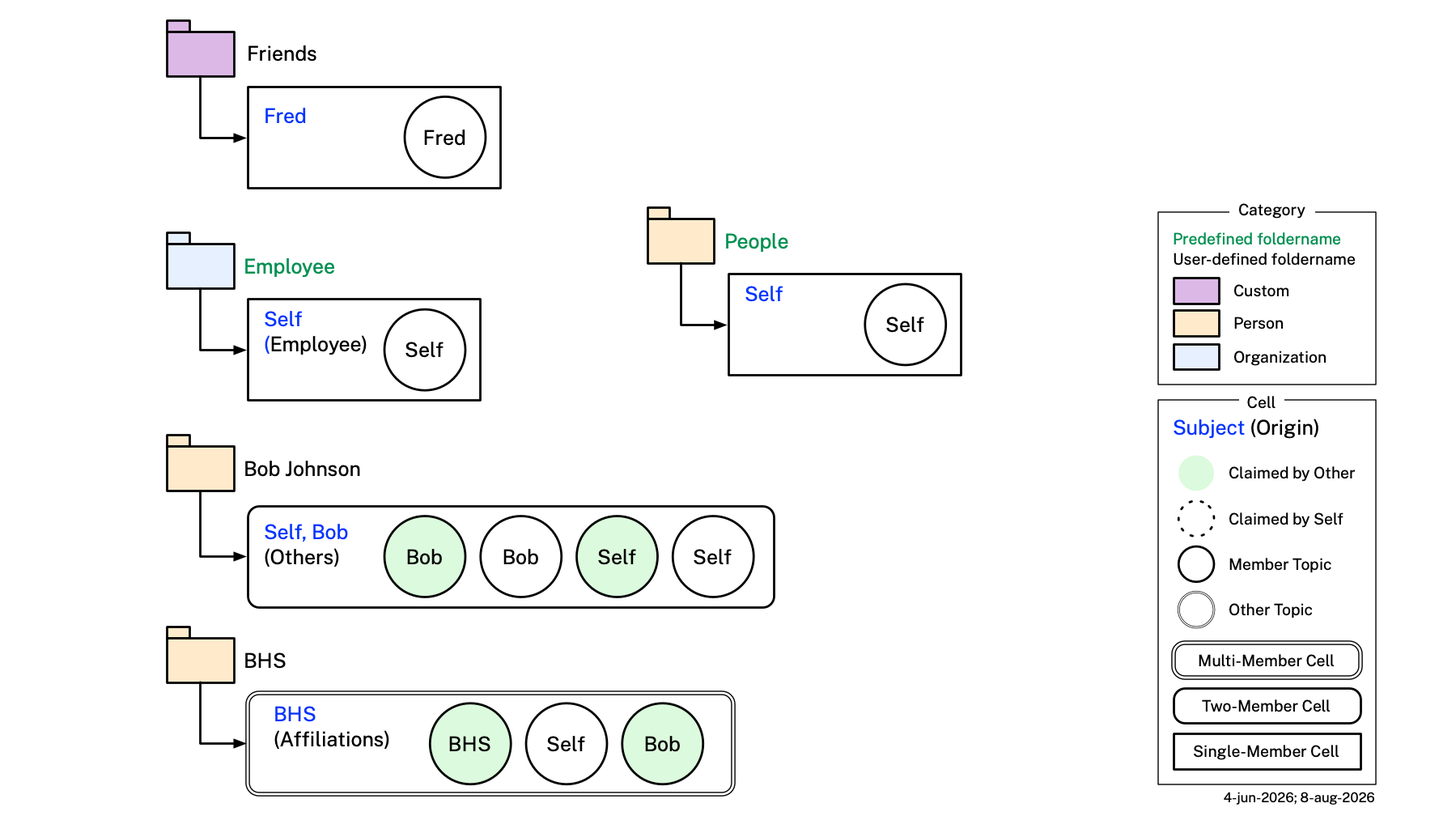
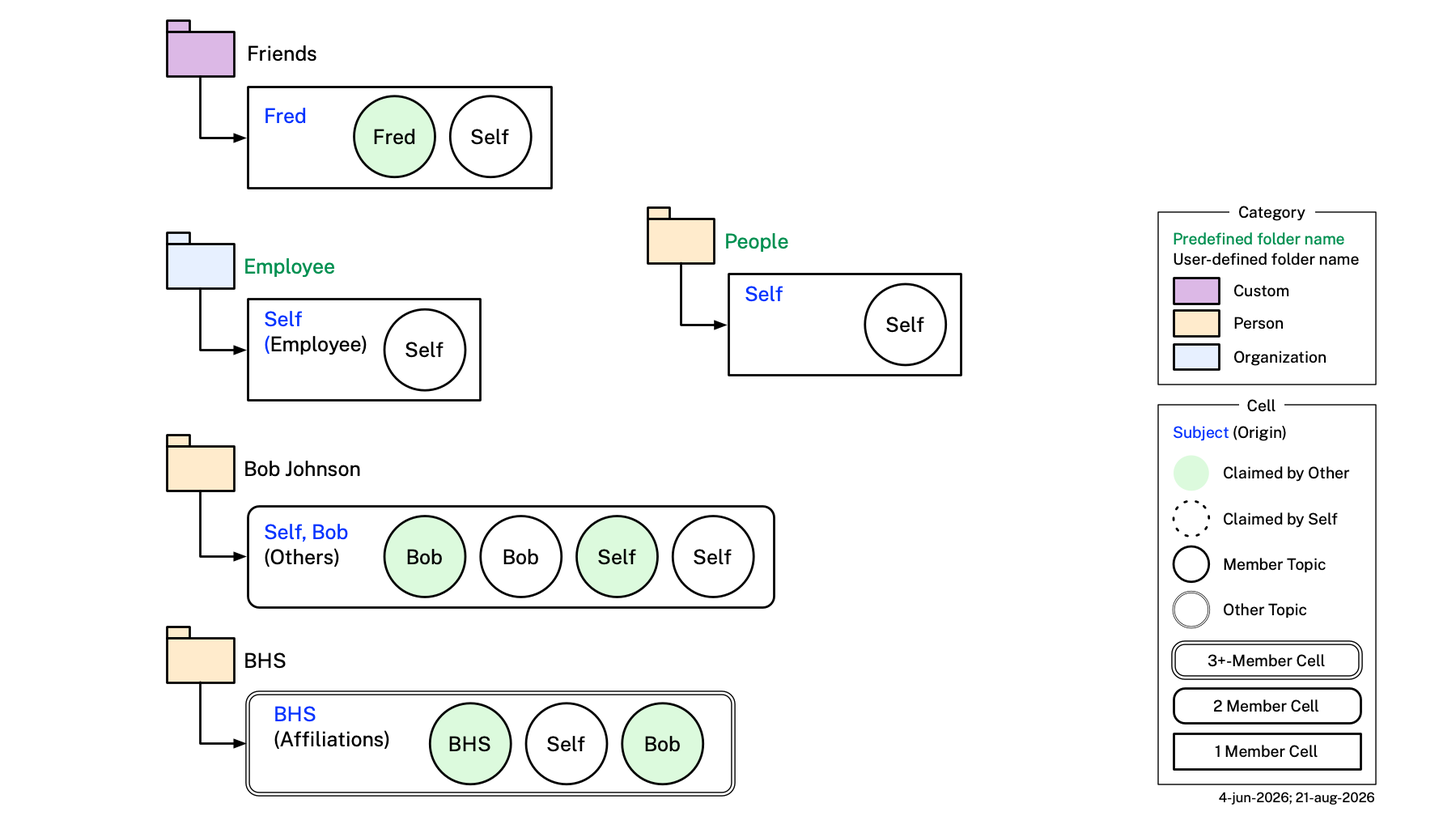
Correct Check 12d, resolve cell:chat as planned, verify cat-cell-topic.png fix
Check 12d previously claimed cell.png displays each concrete Cell
subtype's cell:label text somewhere in the diagram. Direct inspection
shows it doesn't -- the diagram only draws bare class names (OneMember,
TwoMember, ThreePlusMember). Corrected 12d to say so, and pointed to
where cell:label wording is actually verified (Check 10f for the 11
example diagrams; Check 15/20 for cat-cell-topic.png/folder-mapping.png).

cell:chat (the still-open discrepancy in cell.png) is confirmed a
planned property, not yet added to cell.ttl -- reworded from an open
question to a documented, accepted exception.

Verified the user's cat-cell-topic.png fix: the "Friends" box now shows
both a white "Self" member topic and a green "Fred" other topic,
resolving the Check 21 violation (a OneMember cell's sole topic being
about the subject, not Self) flagged last turn. Updated Check 15's
description to match, and refreshed its stale border-style label
strings ("Multi-Member Cell" etc. -> "3+ Member Cell" etc.).

diff --git a/CLAUDE.md b/CLAUDE.md
@@ -399,12 +399,12 @@ for root in ['example/Cells']:
 
 If a `SKIP-LEVEL NESTING` issue is found, give the intervening folder its own cell-databook. If a `TOO MANY CELLS` issue is found, move the extra file(s) out to their own new folder — a category folder may hold only one cell-databook, so a second cell belongs in its own new folder, not alongside the first. An empty/placeholder folder is not necessarily an error — flag it to the user rather than deleting it, since it may be a deliberate placeholder for content not yet added. Cell-databook files now routinely carry substantial body content (one `### Topic NN` section per embedded topic) — this is expected and not itself a violation of this check, which only validates folder nesting, not file size or content.
 
-**Check 12 — `cell.ttl` matches `images/cell-ontology/cell.png`**: Current as of the diagram's 5-aug-2026 redraw, which dropped the `folder` arrow off `Cell` entirely, matching cell.ttl 3.23.0's outright removal of `cell:folder` (a cell's folder is now purely the folder its cell-databook physically lives in, never a stored path, since a folder holds at most one cell-databook — cell.ttl 3.22.0 — so the folder<->cell mapping needs nothing recorded). `Cell` now shows only `origin` (to a `cat:Category` box, correctly drawn **0..1**, matching `cell:origin`'s actual cardinality — cell.ttl 3.26.0 reverted a brief 3.25.0 requirement back to optional, once UserDefined was reintroduced as a genuine third category type with no origin at all; the diagram's 0..1 label was never wrong). `cell:origin`'s range is the classificatory `cat:Category` — category.ttl 1.31.0 deleted the tree-position facet (`cat:Folder` and its subclasses) outright, so there is no longer any tree-position class this could be confused with — so it does not conflict with `cell:Cell`'s "no link to a tree position" design (see `cell:Cell`'s own `rdfs:comment`) — it records what kind of thing a cell is, not where it lives, and needs no `owl:imports category.ttl` (referenced by name only, mirroring `cell:creator`'s identical pattern). ⚠ **Still-open discrepancy**: the diagram still shows a `chat` arrow off `Cell` (to a box literally labeled "TBD") with no counterpart in `cell.ttl` — README.md already describes intended semantics for this too ("optional path to chat stream") but it has not been implemented in `cell.ttl`. Per this check's own rule below, don't silently resolve this either direction — surface it and ask whether `chat` is a planned property not yet added to `cell.ttl`, a stale leftover from an earlier design, or something else. Otherwise current as of cell.ttl 3.15.0: the diagram no longer shows a `note` arrow off `Cell`, matching `cell.ttl` 3.15.0's removal of `cell:note` (the separate notes/files folder hierarchies merged into one single hierarchy under `cell:folder`, itself later removed outright — see above); also correctly shows the `memberTopics`/`otherTopics` split (cell.ttl 3.14.0, renamed from `partyTopics` in 3.17.0) and the `t:SCTopicGraph` label (topic.ttl 1.15.0), both drawn as two separate arrows off `ACell` to a `t:SCTopicGraph` box. `Cell` (abstract, blue) carries `origin` only (plus the still-open `chat` arrow above). `Cell` splits into two orthogonal facets: `TCell` (abstract, blue, the template facet) carries `templateShape` (to a `sh:NodeShape` box); `ACell` (abstract, blue, the actual/instantiated facet) carries `subject` (to an `xsd:anyURI` box, 1..2 — renamed from `primary` in cell.ttl 3.12.0, range widened from `topic:SCTopicGraph`), `memberTopics` (to a `t:SCTopicGraph` box, cardinality varying by member count — split from `topics`/`secondary`, cell.ttl 3.14.0), `otherTopics` (to a `t:SCTopicGraph` box, 0..N uniformly — the other half of that same split), `shape` (to a `sh:NodeShape` box), `creator` (to a union of `p:Person`/`o:Organization`, required — cell.ttl 3.27.0 tightened this from optional/0..1 to 1..1), and `memberCount` (to `OneMember`/`TwoMember`/`ThreePlusMember` 1..1). The member-composition hierarchy — `OneMember` and `MultiMember` (abstract) → `TwoMember`/`ThreePlusMember` — hangs off `ACell`, not `Cell` directly; `TCell` has no subclasses of its own, since a template cell individual is instead multi-typed with both `TCell` and its `ACell`-lineage class (e.g. `OneMember`) — see `cell-templates.ttl`. `MultiMember` shows no arrows of its own, matching `cell:subject`/`cell:memberTopics`/`cell:otherTopics`'s domain being the broader `cell:ACell` rather than `cell:MultiMember`. No arrow points from `Cell`, `TCell`, or `ACell` to any tree-position box at all — category.ttl 1.31.0 deleted `cat:Folder` and its subclasses outright, so no such box exists any more — `cell:origin`'s arrow points to `cat:Category` instead, the classificatory hierarchy. This diagram is the ontology-level (not example-tree) picture of `cell:Cell`'s structure (redrawn for the 3.0.0/1.0.0 Cell/Category split, again for the 3.7.0 TCell/ACell split, again for the 3.10.0 graph/sc-context → primary/secondary rename, again for the 3.12.0 primary/secondary → subject/topics rename, again for the topic.ttl 1.15.0 SCtopic → SCTopicGraph label fix and the cell.ttl 3.14.0 topics → partyTopics/otherTopics arrow split, again for the cell.ttl 3.15.0 removal of the `note` arrow, again for the cell.ttl 3.17.0 party→member rename, again for the cell.ttl 3.20.0 addition of `cell:origin`, again for the cell.ttl 3.23.0 removal of `cell:folder`, and again for the cell.ttl 3.27.0 tightening of `cell:creator` from optional/0..1 to required/1..1) — the member-composition hierarchy and its content-linking properties. Unlike Check 10 (example diagrams, where the diagram always wins), this check does not presume which side is authoritative when the two disagree — surface the discrepancy and ask:
+**Check 12 — `cell.ttl` matches `images/cell-ontology/cell.png`**: Current as of the diagram's 5-aug-2026 redraw, which dropped the `folder` arrow off `Cell` entirely, matching cell.ttl 3.23.0's outright removal of `cell:folder` (a cell's folder is now purely the folder its cell-databook physically lives in, never a stored path, since a folder holds at most one cell-databook — cell.ttl 3.22.0 — so the folder<->cell mapping needs nothing recorded). `Cell` now shows only `origin` (to a `cat:Category` box, correctly drawn **0..1**, matching `cell:origin`'s actual cardinality — cell.ttl 3.26.0 reverted a brief 3.25.0 requirement back to optional, once UserDefined was reintroduced as a genuine third category type with no origin at all; the diagram's 0..1 label was never wrong). `cell:origin`'s range is the classificatory `cat:Category` — category.ttl 1.31.0 deleted the tree-position facet (`cat:Folder` and its subclasses) outright, so there is no longer any tree-position class this could be confused with — so it does not conflict with `cell:Cell`'s "no link to a tree position" design (see `cell:Cell`'s own `rdfs:comment`) — it records what kind of thing a cell is, not where it lives, and needs no `owl:imports category.ttl` (referenced by name only, mirroring `cell:creator`'s identical pattern). **Resolved, 22-aug-2026**: the diagram shows a `chat` arrow off `Cell` (to a box literally labeled "TBD") with no counterpart in `cell.ttl` yet — confirmed (not merely surfaced as an open question any more) to be a **planned property**, not yet implemented: README.md already describes its intended semantics ("optional path to chat stream"), but `cell.ttl` itself has no `cell:chat` declaration. Until it's added, `chat` remains an accepted, deliberate exception to 12a/12b below (the one arrow in this diagram with no matching `cell.ttl` property) rather than a bug to fix on either side. Otherwise current as of cell.ttl 3.15.0: the diagram no longer shows a `note` arrow off `Cell`, matching `cell.ttl` 3.15.0's removal of `cell:note` (the separate notes/files folder hierarchies merged into one single hierarchy under `cell:folder`, itself later removed outright — see above); also correctly shows the `memberTopics`/`otherTopics` split (cell.ttl 3.14.0, renamed from `partyTopics` in 3.17.0) and the `t:SCTopicGraph` label (topic.ttl 1.15.0), both drawn as two separate arrows off `ACell` to a `t:SCTopicGraph` box. `Cell` (abstract, blue) carries `origin` only (plus the still-open `chat` arrow above). `Cell` splits into two orthogonal facets: `TCell` (abstract, blue, the template facet) carries `templateShape` (to a `sh:NodeShape` box); `ACell` (abstract, blue, the actual/instantiated facet) carries `subject` (to an `xsd:anyURI` box, 1..2 — renamed from `primary` in cell.ttl 3.12.0, range widened from `topic:SCTopicGraph`), `memberTopics` (to a `t:SCTopicGraph` box, cardinality varying by member count — split from `topics`/`secondary`, cell.ttl 3.14.0), `otherTopics` (to a `t:SCTopicGraph` box, 0..N uniformly — the other half of that same split), `shape` (to a `sh:NodeShape` box), `creator` (to a union of `p:Person`/`o:Organization`, required — cell.ttl 3.27.0 tightened this from optional/0..1 to 1..1), and `memberCount` (to `OneMember`/`TwoMember`/`ThreePlusMember` 1..1). The member-composition hierarchy — `OneMember` and `MultiMember` (abstract) → `TwoMember`/`ThreePlusMember` — hangs off `ACell`, not `Cell` directly; `TCell` has no subclasses of its own, since a template cell individual is instead multi-typed with both `TCell` and its `ACell`-lineage class (e.g. `OneMember`) — see `cell-templates.ttl`. `MultiMember` shows no arrows of its own, matching `cell:subject`/`cell:memberTopics`/`cell:otherTopics`'s domain being the broader `cell:ACell` rather than `cell:MultiMember`. No arrow points from `Cell`, `TCell`, or `ACell` to any tree-position box at all — category.ttl 1.31.0 deleted `cat:Folder` and its subclasses outright, so no such box exists any more — `cell:origin`'s arrow points to `cat:Category` instead, the classificatory hierarchy. This diagram is the ontology-level (not example-tree) picture of `cell:Cell`'s structure (redrawn for the 3.0.0/1.0.0 Cell/Category split, again for the 3.7.0 TCell/ACell split, again for the 3.10.0 graph/sc-context → primary/secondary rename, again for the 3.12.0 primary/secondary → subject/topics rename, again for the topic.ttl 1.15.0 SCtopic → SCTopicGraph label fix and the cell.ttl 3.14.0 topics → partyTopics/otherTopics arrow split, again for the cell.ttl 3.15.0 removal of the `note` arrow, again for the cell.ttl 3.17.0 party→member rename, again for the cell.ttl 3.20.0 addition of `cell:origin`, again for the cell.ttl 3.23.0 removal of `cell:folder`, and again for the cell.ttl 3.27.0 tightening of `cell:creator` from optional/0..1 to required/1..1) — the member-composition hierarchy and its content-linking properties. Unlike Check 10 (example diagrams, where the diagram always wins), this check does not presume which side is authoritative when the two disagree — surface the discrepancy and ask:
 
-- **12a** — every property arrow shown off `Cell` (`origin`) has a corresponding `cell:` property in `cell.ttl` with `rdfs:domain cell:Cell` (the diagram's `chat` arrow currently fails this — see the still-open discrepancy above). Every arrow off `TCell` (`templateShape`) has `rdfs:domain cell:TCell`; every arrow off `ACell` (`shape`, `creator`, `memberCount`, `subject`, `memberTopics`, `otherTopics`) has `rdfs:domain cell:ACell` — `creator` and `memberCount` were narrowed here from `cell:Cell` in cell.ttl 3.7.0 (`memberCount` itself renamed from `parties` in 3.17.0), `subject`/`topics` (renamed from `primary`/`secondary`, themselves renamed from `graph`/`sc-context`) in 3.10.0/3.12.0, and `topics` itself split into `partyTopics`/`otherTopics` in 3.14.0 (`partyTopics` itself renamed to `memberTopics` in 3.17.0). `MultiMember` should show no arrows of its own — it carries no property, since `cell:subject`/`cell:memberTopics`/`cell:otherTopics`'s domain is the broader `cell:ACell`. Each arrow's target type in the diagram must match the property's `rdfs:range` — `subject`'s is `xsd:anyURI` (widened from `topic:SCTopicGraph` in cell.ttl 3.12.0, since its value is the resource(s) the cell is about, not a topic container; `subject` is an `owl:AnnotationProperty`, unlike the other `ACell` arrows, though the diagram doesn't visually distinguish annotation from object properties by arrow style anywhere), `memberTopics`'s and `otherTopics`'s are both `topic:SCTopicGraph` (unchanged range from `topics`; narrowed from plain `topic:TopicGraph` for `primary`/`graph` in 3.10.0; renamed from `context:SCcontext`/`context:Context` in cell.ttl 3.11.0; the diagram's box for this target correctly reads `t:SCTopicGraph`, not the retired `t:SCtopic` label), `creator`'s is the union of `p:Person`/`o:Organization`, `memberCount`'s is `cell:ACell` itself (value is the concrete subclass, not `xsd:string`; range narrowed from `cell:Cell` in 3.7.0), `origin`'s is `cat:Category` itself (value is the concrete leaf subclass, e.g. `cat:Others`, not `xsd:string` — the same class-value-punning pattern as `memberCount`), `templateShape`'s and `shape`'s are both `sh:NodeShape` — two separate arrows from two different boxes (`TCell` vs `ACell`) to what may be drawn as the same target, since they're two distinct properties, not one property under two names. No `note` arrow should appear off `Cell` at all — `cell:note` was removed in cell.ttl 3.15.0.
+- **12a** — every property arrow shown off `Cell` (`origin`) has a corresponding `cell:` property in `cell.ttl` with `rdfs:domain cell:Cell` (the diagram's `chat` arrow is the one accepted exception — see "Resolved, 22-aug-2026" above: it's a planned property, not yet added to `cell.ttl`). Every arrow off `TCell` (`templateShape`) has `rdfs:domain cell:TCell`; every arrow off `ACell` (`shape`, `creator`, `memberCount`, `subject`, `memberTopics`, `otherTopics`) has `rdfs:domain cell:ACell` — `creator` and `memberCount` were narrowed here from `cell:Cell` in cell.ttl 3.7.0 (`memberCount` itself renamed from `parties` in 3.17.0), `subject`/`topics` (renamed from `primary`/`secondary`, themselves renamed from `graph`/`sc-context`) in 3.10.0/3.12.0, and `topics` itself split into `partyTopics`/`otherTopics` in 3.14.0 (`partyTopics` itself renamed to `memberTopics` in 3.17.0). `MultiMember` should show no arrows of its own — it carries no property, since `cell:subject`/`cell:memberTopics`/`cell:otherTopics`'s domain is the broader `cell:ACell`. Each arrow's target type in the diagram must match the property's `rdfs:range` — `subject`'s is `xsd:anyURI` (widened from `topic:SCTopicGraph` in cell.ttl 3.12.0, since its value is the resource(s) the cell is about, not a topic container; `subject` is an `owl:AnnotationProperty`, unlike the other `ACell` arrows, though the diagram doesn't visually distinguish annotation from object properties by arrow style anywhere), `memberTopics`'s and `otherTopics`'s are both `topic:SCTopicGraph` (unchanged range from `topics`; narrowed from plain `topic:TopicGraph` for `primary`/`graph` in 3.10.0; renamed from `context:SCcontext`/`context:Context` in cell.ttl 3.11.0; the diagram's box for this target correctly reads `t:SCTopicGraph`, not the retired `t:SCtopic` label), `creator`'s is the union of `p:Person`/`o:Organization`, `memberCount`'s is `cell:ACell` itself (value is the concrete subclass, not `xsd:string`; range narrowed from `cell:Cell` in 3.7.0), `origin`'s is `cat:Category` itself (value is the concrete leaf subclass, e.g. `cat:Others`, not `xsd:string` — the same class-value-punning pattern as `memberCount`), `templateShape`'s and `shape`'s are both `sh:NodeShape` — two separate arrows from two different boxes (`TCell` vs `ACell`) to what may be drawn as the same target, since they're two distinct properties, not one property under two names. No `note` arrow should appear off `Cell` at all — `cell:note` was removed in cell.ttl 3.15.0.
 - **12b** — every `cell:` property defined in `cell.ttl` appears as an arrow in the diagram, under the box matching its domain — `Cell`, `TCell`, or `ACell` (catches new properties added to the ttl but never drawn, or drawn under the wrong box). `cell:origin` satisfies this as of cell.ttl 3.20.0.
 - **12c** — the class hierarchy `Cell` → `TCell`/`ACell` (both abstract), and separately `ACell` → `MultiMember` (abstract) → `TwoMember`/`ThreePlusMember`, plus `ACell` → `OneMember`, shown in the diagram matches `cell.ttl`'s actual `rdfs:subClassOf` relationships (by class local name, not just position). `OneMember` and `MultiMember` must not be drawn as direct children of `Cell` — both moved under `ACell` in cell.ttl 3.7.0.
-- **12d** — each concrete `Cell` subtype's example `cell:label` value shown in the diagram (`"Single-Member Cell"`, `"Two-Member Cell"`, `"Multi-Member Cell"`) matches that subtype's actual `cell:label` value in `cell.ttl` — these display strings were updated in cell.ttl 3.17.0 (from `"Cell"`/`"Two-Party Cell"`/`"Multi-Party Cell"`) to match the redrawn diagrams. `cell:label` here is a class-level default display name — category.ttl 1.31.0 deleted `cat:label` (the per-instance display name it used to be distinguished from) outright, since it lived on the now-deleted `cat:Folder` — `Cell`, `TCell`, `ACell`, and `MultiMember` are all abstract and carry no `cell:label` of their own.
+- **12d** — ⚠ **Corrected, 22-aug-2026**: this item previously claimed `cell.png` displays each concrete `Cell` subtype's example `cell:label` value (`"Single-Member Cell"`, `"Two-Member Cell"`, `"Multi-Member Cell"`, later renamed `"1 Member Cell"`/`"2 Member Cell"`/`"3+ Member Cell"`) somewhere in the diagram, and that this text must match `cell.ttl`'s actual `cell:label` values. Direct inspection of the current `cell.png` shows this is not true — the diagram only draws the bare class local names (`OneMember`, `TwoMember`, `ThreePlusMember`) as box labels; no `cell:label` display string appears anywhere in it. There is accordingly nothing for this item to check in `cell.png` — the `cell:label` wording is instead verified where it's actually drawn, in the 11 example diagrams (Check 10f) and in `cat-cell-topic.png`/`images/folder-mapping.png`'s border-style legend entries (Checks 15/20). `cell:label` itself is still a real class-level default display name defined in `cell.ttl` (category.ttl 1.31.0 deleted `cat:label`, the per-instance display name it used to be distinguished from, outright, since it lived on the now-deleted `cat:Folder`) — `Cell`, `TCell`, `ACell`, and `MultiMember` are all abstract and carry no `cell:label` of their own — this item is only correcting where that text is expected to be rendered.
 
 **Check 13 — `topic.ttl` matches `images/topic-ontology/topic.png`**: ⚠ **Stale as of topic.ttl 1.15.0** — the diagram still shows boxes labeled `Topic` and `SCtopic`, the retired pre-1.15.0 class names; it needs manual redrawing to `TopicGraph`/`SCTopicGraph` and is described below in its pre-1.15.0 form for reference. Redrawn for the context→topic rename and the `subject` range broadening: `Topic` shows only `template`; `SCtopic` (subClassOf `Topic`) shows `subject` (targeting `xsd:anyURI` — any resource IRI, not necessarily `p:Person`/`o:Organization`) and `claimant` (targeting `p:Person`/`o:Organization`, not `i:PDNidentifier`) — no `about-by` arrow, matching the earlier deletion of `context:about-by`. No leaf subtype boxes below `SCtopic`, matching the earlier deletion of `SBScontext`/`OBScontext`/`OBOcontext`/`SBOcontext` — `SCTopicGraph` has no subclasses. Once redrawn for topic.ttl 1.15.0, the two boxes should simply read `TopicGraph` and `SCTopicGraph` — no change to which arrows they carry or those arrows' targets/cardinalities, this is a pure rename with no domain/range/cardinality changes. This diagram is the ontology-level picture of `topic:TopicGraph`'s structure. After any change to `topic.ttl` or to this diagram, verify:
 
@@ -419,7 +419,7 @@ If a `SKIP-LEVEL NESTING` issue is found, give the intervening folder its own ce
 - **14b** — every `cat:` property defined in `category.ttl` appears as an arrow in the diagram, under the box matching its domain (catches new properties added to the ttl but never drawn, or drawn under the wrong box). As of category.ttl 1.31.0 this means just `templateCell`.
 - **14c** — the class hierarchy `Category` → `Person`/`Organization` (both abstract) and their leaf subclasses, shown in the diagram matches `category.ttl`'s actual `rdfs:subClassOf` and `cell:abstract` values. There is no second tree to check any more — `category.ttl` defines no `Folder` hierarchy at all as of 1.31.0.
 
-**Check 15 — `images/cat-cell-topic.png` matches example usage**: Current as of the second 8-aug-2026 redraw, which moved the fill color back onto the folder icon (reverting the previous redraw's brief move to the cell's own content box, which is now uniformly plain white throughout) and renamed the "UserDefined" fill swatch to "Custom." The legend is split into two boxes: a **Category** legend (title "Category") holds only the two folder-**name**-text swatches, "Predefined foldername" (green) and "User-defined foldername" (plain black, no color swatch — it's the absence of green, not a third text color); the **Cell** legend holds three fill-color swatches — Custom (purple), Person (tan), Organization (light blue) — alongside the existing Subject/Origin and border-style entries. None of these names are OWL classes — category.ttl 1.31.0 deleted `cat:Folder` and its `cat:CategoryDefined`/`cat:UserDefined` subclasses outright, and no such class was reintroduced; Custom stays a pure filename/display convention. Fill color is on the folder icon, reflecting `c:origin`'s presence and ancestry (tan when it resolves to `cat:Person`, light blue when `cat:Organization`, purple/Custom when the cell has no origin at all — see README's "Category Folders" section); the cell's own content box never carries fill, always plain white. Folder-name text color is a *different* fact, meaningful only when an origin is present — green when the folder's name is copied verbatim from that origin's own `rdfs:label`, plain black when the user gave the folder a different name. A Custom (no-origin) folder has no label to match, so its name is always black text too, never green. The **Cell** legend's Subject/Origin/border-style portion is otherwise unchanged: a blue **Subject** heading over a green-filled circle labeled "Claimed by Other", a white/outlined circle labeled "Claimed by Self", a gray swatch labeled "Shared"; "Member Topic"/"Other Topic" circle entries (mapping to `c:memberTopics`/`c:otherTopics` — visually similar at normal viewing size, lean on the text labels); and three cell-box border-style entries — "Multi-Member Cell" (bold/double border), "Two-Member Cell" (double border), "Single-Member Cell" (single border), matching `cell:ThreePlusMember`/`cell:TwoMember`/`cell:OneMember`'s `cell:label` values (Check 12d). Every topic circle carries an explicit subject-name label (e.g. "Bob", "Self", "BHS") baked directly into the circle. This diagram illustrates representative cell/category associations generically, not tied to a specific example instance — five boxes, each with a single-line folder-name header (no separate `catType`/`label` split), fill color on the folder icon, content box always plain white: `Friends` (purple/Custom fill, black text, no origin at all, `cell:OneMember`, subject "Fred", one white "Fred" topic), `Employee` (light-blue/`Organization`, green text — folder name matches origin `(Employee)`'s own label exactly, `cell:OneMember`, subject "Self", one white "Self" topic), `People` (tan/`Person`, green text — no origin parenthetical shown, correctly compressed since the origin's label already equals the folder name, `cell:OneMember`, subject "Self", one white "Self" topic), `Bob Johnson` (tan/`Person`, black text — origin `(Others)` ≠ folder name, `cell:TwoMember`, subject "Self, Bob", four topics — two white/self-claimed, two green/other-claimed, all four topic link types filled), and `BHS` (tan/`Person`, black text — origin `(Affiliations)` ≠ folder name, `cell:ThreePlusMember`, subject "BHS", three topics: BHS's own profile (green), Self's BHS profile (white), and Bob's BHS member profile (green)) — it replaces the earlier `images/cell-ontology/cells+contexts.png`. The previously-flagged `Employees`/`(Employee)` label mismatch is resolved: the box's folder name was changed to the singular `Employee` to match its shown origin label, rather than recoloring it. Each cell box shows only a single plain folder icon (no separate "chat" icon; see Check 12's still-open `cell:chat` discrepancy, which concerns `cell.png` only, not this diagram). Re-verify each box's `Member Topic`/`Other Topic` circles and blue `Subject` text remain a valid illustration of the properties and cardinalities described in the Cell and Category Ontology sections of `README.md` after any change to those properties.
+**Check 15 — `images/cat-cell-topic.png` matches example usage**: Current as of the second 8-aug-2026 redraw, which moved the fill color back onto the folder icon (reverting the previous redraw's brief move to the cell's own content box, which is now uniformly plain white throughout) and renamed the "UserDefined" fill swatch to "Custom." The legend is split into two boxes: a **Category** legend (title "Category") holds only the two folder-**name**-text swatches, "Predefined foldername" (green) and "User-defined foldername" (plain black, no color swatch — it's the absence of green, not a third text color); the **Cell** legend holds three fill-color swatches — Custom (purple), Person (tan), Organization (light blue) — alongside the existing Subject/Origin and border-style entries. None of these names are OWL classes — category.ttl 1.31.0 deleted `cat:Folder` and its `cat:CategoryDefined`/`cat:UserDefined` subclasses outright, and no such class was reintroduced; Custom stays a pure filename/display convention. Fill color is on the folder icon, reflecting `c:origin`'s presence and ancestry (tan when it resolves to `cat:Person`, light blue when `cat:Organization`, purple/Custom when the cell has no origin at all — see README's "Category Folders" section); the cell's own content box never carries fill, always plain white. Folder-name text color is a *different* fact, meaningful only when an origin is present — green when the folder's name is copied verbatim from that origin's own `rdfs:label`, plain black when the user gave the folder a different name. A Custom (no-origin) folder has no label to match, so its name is always black text too, never green. The **Cell** legend's Subject/Origin/border-style portion is otherwise unchanged: a blue **Subject** heading over a green-filled circle labeled "Claimed by Other", a white/outlined circle labeled "Claimed by Self", a gray swatch labeled "Shared"; "Member Topic"/"Other Topic" circle entries (mapping to `c:memberTopics`/`c:otherTopics` — visually similar at normal viewing size, lean on the text labels); and three cell-box border-style entries — "3+ Member Cell" (bold/double border), "2 Member Cell" (double border), "1 Member Cell" (single border), matching `cell:ThreePlusMember`/`cell:TwoMember`/`cell:OneMember`'s current `cell:label` values (renamed from "Multi-Member Cell"/"Two-Member Cell"/"Single-Member Cell" — Check 12d no longer covers this, since `cell.png` itself never actually drew this text; it's verified here and in the 11 example diagrams' own legends, Check 10f, instead). Every topic circle carries an explicit subject-name label (e.g. "Bob", "Self", "BHS") baked directly into the circle. This diagram illustrates representative cell/category associations generically, not tied to a specific example instance — five boxes, each with a single-line folder-name header (no separate `catType`/`label` split), fill color on the folder icon, content box always plain white: `Friends` (purple/Custom fill, black text, no origin at all, `cell:OneMember`, subject "Fred", two topics: a white "Self" member topic — the cell's required `memberTopics` entry, per Check 21 — and a green "Fred" other topic, since Fred is the subject but not the member), `Employee` (light-blue/`Organization`, green text — folder name matches origin `(Employee)`'s own label exactly, `cell:OneMember`, subject "Self", one white "Self" topic), `People` (tan/`Person`, green text — no origin parenthetical shown, correctly compressed since the origin's label already equals the folder name, `cell:OneMember`, subject "Self", one white "Self" topic), `Bob Johnson` (tan/`Person`, black text — origin `(Others)` ≠ folder name, `cell:TwoMember`, subject "Self, Bob", four topics — two white/self-claimed, two green/other-claimed, all four topic link types filled), and `BHS` (tan/`Person`, black text — origin `(Affiliations)` ≠ folder name, `cell:ThreePlusMember`, subject "BHS", three topics: BHS's own profile (green), Self's BHS profile (white), and Bob's BHS member profile (green)) — it replaces the earlier `images/cell-ontology/cells+contexts.png`. The previously-flagged `Employees`/`(Employee)` label mismatch is resolved: the box's folder name was changed to the singular `Employee` to match its shown origin label, rather than recoloring it. Each cell box shows only a single plain folder icon (no separate "chat" icon; see Check 12's `cell:chat` planned-property note, which concerns `cell.png` only, not this diagram). Re-verify each box's `Member Topic`/`Other Topic` circles and blue `Subject` text remain a valid illustration of the properties and cardinalities described in the Cell and Category Ontology sections of `README.md` after any change to those properties.
 
 **Check 16 — IRI roots: `mee.foundation/ontologies` for foundational files, `www.example.org` for example data**: Every foundational ontology and SHACL shapes file — `persona.ttl`, `topic.ttl`, `cell.ttl`, `category.ttl`, `cell-templates.ttl`, `pdn-identity.ttl`, `organization.ttl`, `persona-templates.ttl`, their `*-shacl.ttl` companions (including `cell-templates-shacl.ttl`), and the per-template files in `shacl/` — must declare its `owl:Ontology` IRI under `http://mee.foundation/ontologies/`. There is no longer a separate canonical category/cell DataBook tree to check (`categories-person/`/`categories-org/` were removed in category.ttl 1.8.0) — the canonical tree's IRI roots are covered by `category.ttl`/`cell-templates.ttl` themselves. Every DataBook under `example/Cells/` (excluding `under-development/`) represents Alice's own example instance data, so both its own `id:` and every `mia.topics[].id` value it carries must be grounded under `http://www.example.org/` — `https://` is deliberately rejected here, not just accepted alongside it, since every identifier in the example tree (cell ids and topic ids alike) was standardized on the plain `http://` scheme for consistency; a stray `https://` is exactly the kind of drift this check exists to catch. Run:
 
